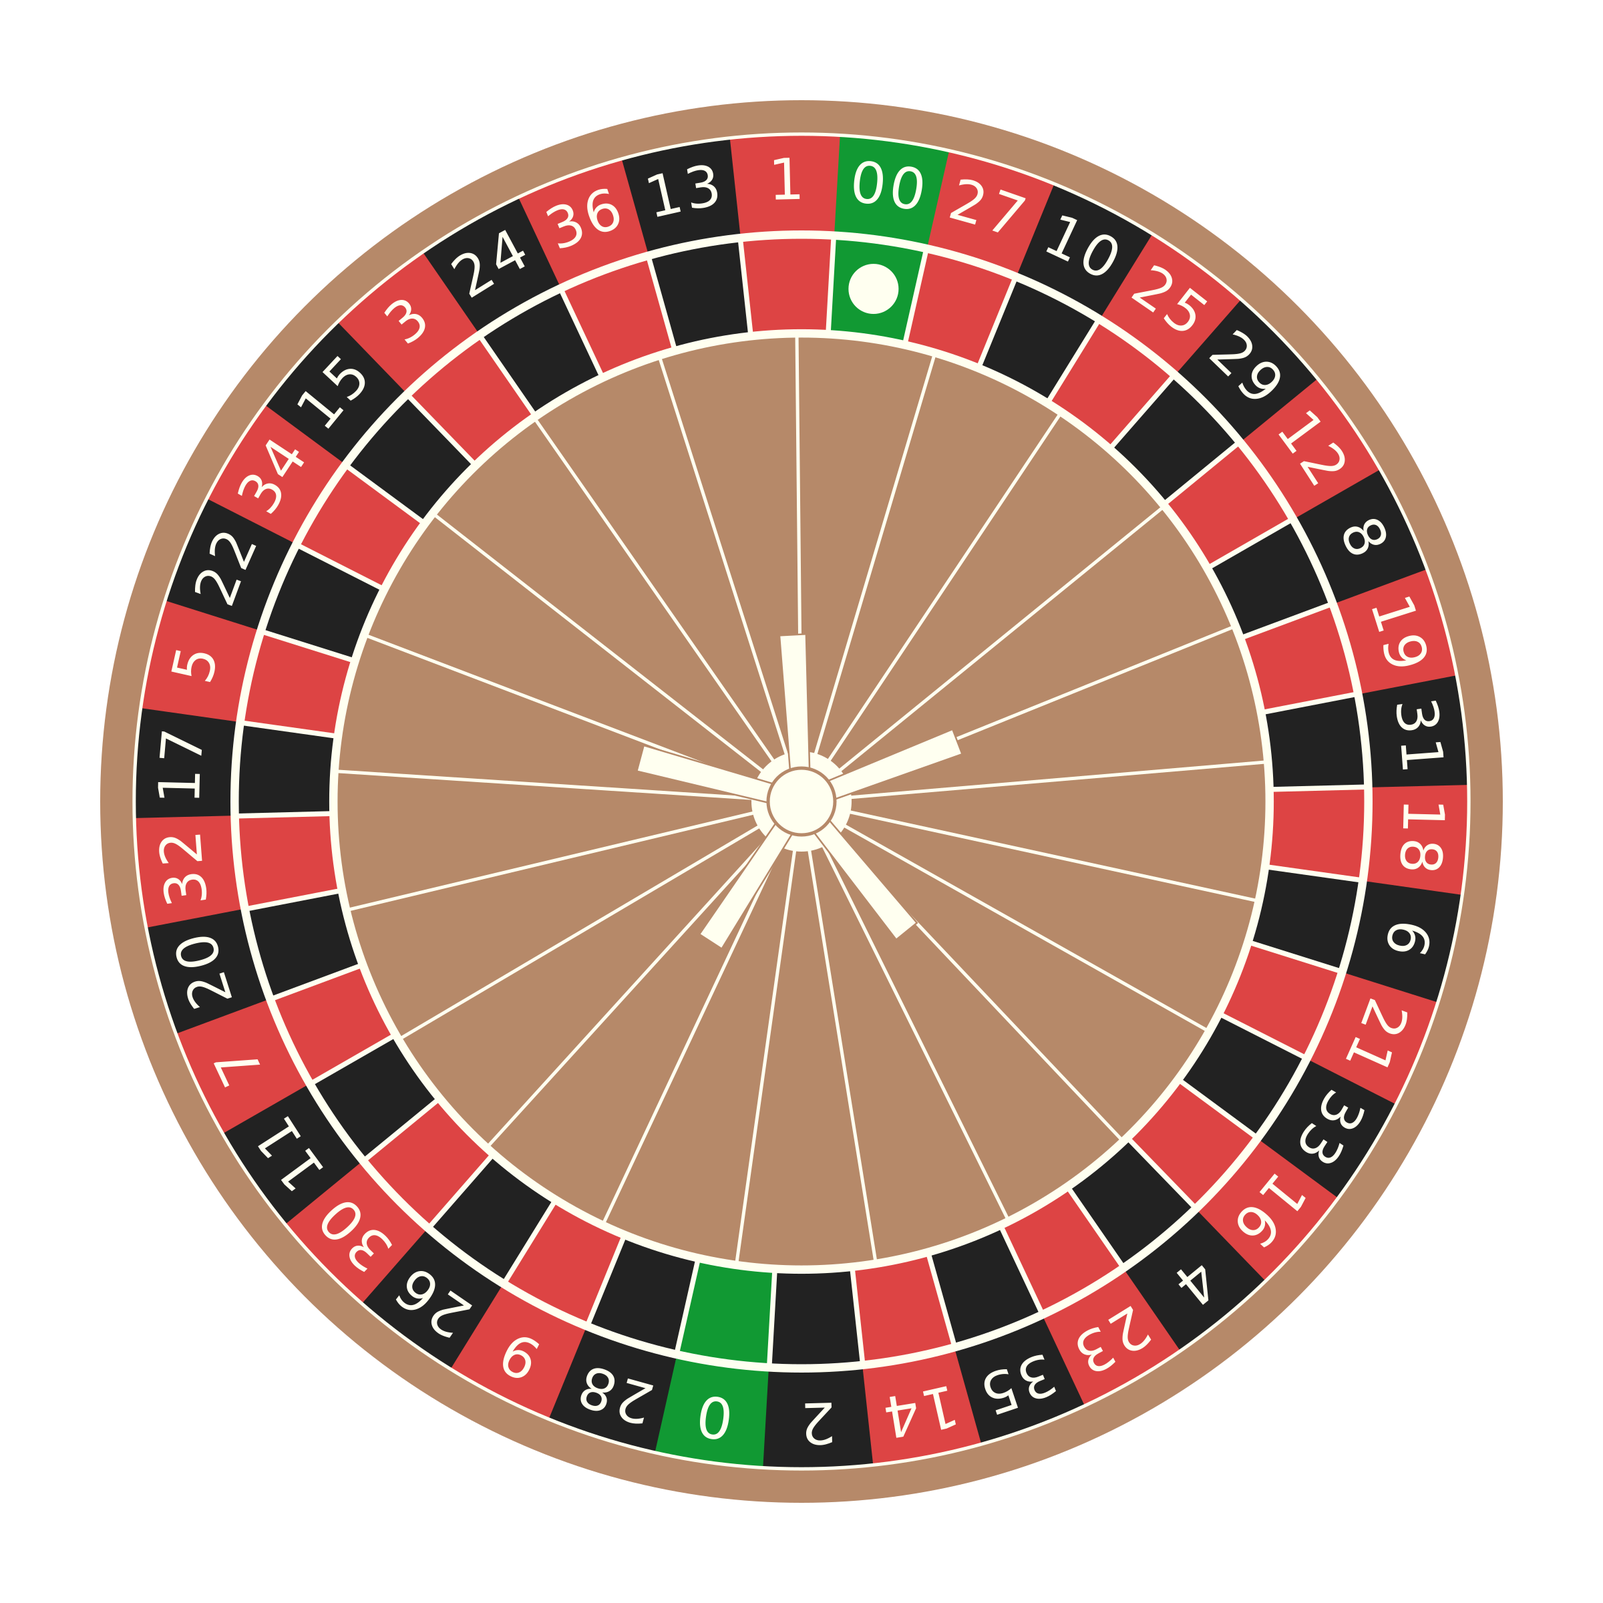
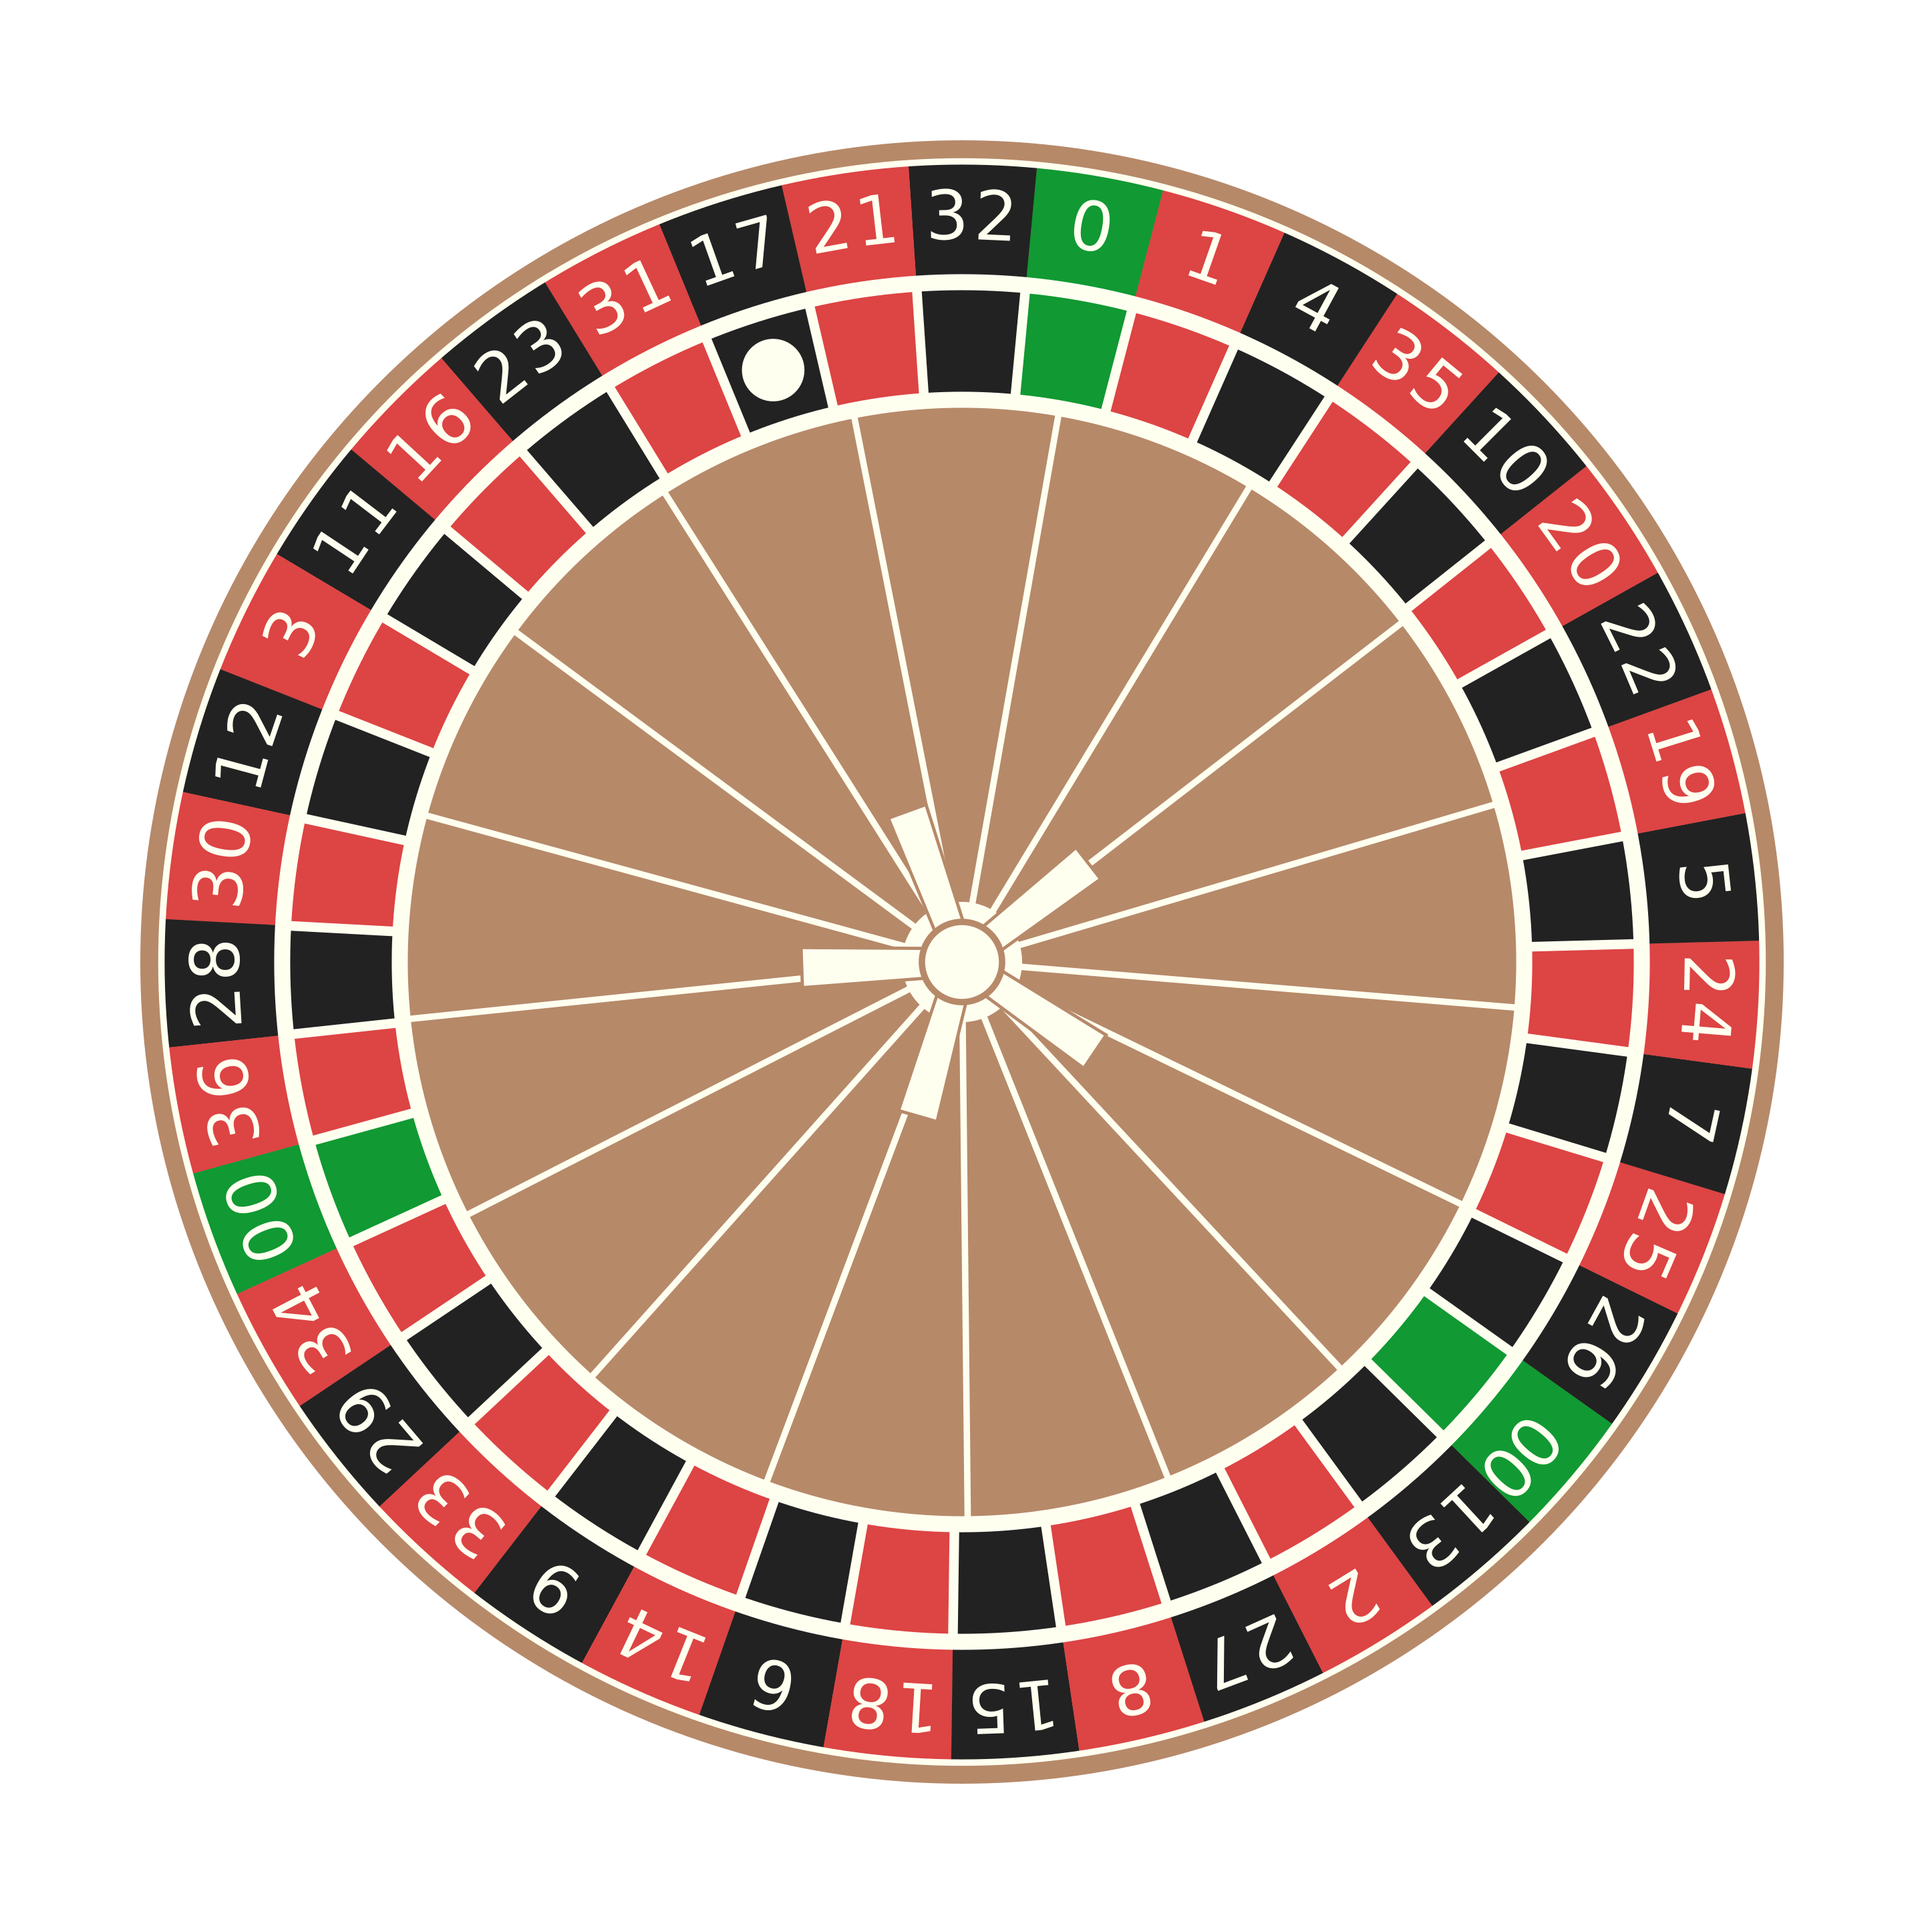
Ended roulette function

diff --git a/draw_roulette.py b/draw_roulette.py
@@ -1,0 +1,117 @@
+import numpy as np
+import drawSvg as draw
+from numpy.random.mtrand import random
+
+
+def draw_roulette(billes=[], numbers=None, americaine=False, handles=5, phase=0, h_phase=30, random_seed=None):
+    margin = 0.2
+    board_margin = 0.025
+    inner_rays_factor = 2.5
+    l_handle, w_handle = 0.2, 0.05
+    sw_ring = 0.004
+
+    k_border = 'ivory'
+    k_outside = '#B68969'
+    k_red = '#DD4444'
+    k_black = '#222222'
+    k_green = '#119933'
+
+    if random_seed is not None:
+        np.random.seed(random_seed)
+        
+    def convert_numbers(n_max, n_zeros):
+        n = np.arange(1, n_max + 1)
+        np.random.shuffle(n)
+        n = list(n)
+        if n_zeros == 2:
+            i1 = n_max // 2
+            return [0] + n[:i1] + [-1] + n[i1:]
+        elif n_zeros == 3:
+            i1, i2 = n_max // 3, 2 * n_max // 3
+            return [0] + n[:i1] + [-1] + n[i1:i2] + [-2] + n[i2:]
+        return [0] + n
+
+    if numbers is None:
+        if americaine:
+            # Americaine
+            numbers = [0, 2, 14, 35, 23, 4, 16, 33, 21, 6, 18, 31, 19, 8, 12, 29, 25, 10, 27, -1, 1, 13, 36, 24, 3, 15, 34, 22, 5, 17, 32, 20, 7, 11, 30, 26, 9, 28]
+        else:
+            # Française
+            numbers = [0, 26, 3, 35, 12, 28, 7, 29, 18, 22, 9, 31, 14, 20, 1, 33, 16, 24, 5, 10, 23, 8, 30, 11, 36, 13, 27, 6, 34, 17, 25, 2, 21, 4, 19, 15, 32]
+    elif type(numbers) is tuple:
+        if len(numbers) > 1:
+            n_zeros = max(1, min(3, numbers[1]))
+        else:
+            n_zeros = 1 + americaine
+        n_max = max(n_zeros, n_zeros * (min(48, numbers[0]) // n_zeros))
+        numbers = convert_numbers(n_max, n_zeros)
+    elif type(numbers) is int:
+        n_zeros = 1 + americaine
+        n_max = max(2, n_zeros * (min(48, numbers) // n_zeros))
+        numbers = convert_numbers(n_max, n_zeros)
+        
+    def written_number(n):
+        if n > 0:
+            return str(n)[::-1]
+        else:
+            return (1 - n) * '0'
+
+    r_out, r_mid, r_in = 1, 0.85, 0.7
+    nb_width = 360 / len(numbers)
+    d = draw.Drawing(2 * (1 + margin), 2 * (1 + margin), origin='center', displayInline=False)
+    # Board
+    d.append(draw.Circle(0, 0, (1 + board_margin)* r_out, fill=k_outside))
+    # Draw multiple circular arcs
+    angle = 90 + phase
+    red = True
+    ps = []
+    for n in numbers:
+        if n > 0:
+            if red:
+                stroke = k_red
+            else:
+                stroke = k_black
+        else:
+            stroke = k_green
+        d.append(draw.Arc(0, 0, (r_out + r_in) / 2, angle - 1.001 * nb_width / 2, angle + 1.001 * nb_width / 2, stroke=stroke, stroke_width=r_out - r_in, fill_opacity=0))
+        ps.append(draw.Arc(0, 0, (r_out + r_in) / 2, 180 + angle - nb_width / 2, 180 + angle + nb_width / 2, fill_opacity=0))
+        angle += nb_width
+        red ^= True
+
+    for n in numbers:
+        path = ps.pop(0)
+        d.append(draw.Line(r_in * np.cos((angle - nb_width / 2) / 180 * np.pi), r_in * np.sin((angle - nb_width / 2) / 180 * np.pi), r_mid * np.cos((angle - nb_width / 2) / 180 * np.pi), r_mid * np.sin((angle - nb_width / 2) / 180 * np.pi), stroke=k_border, stroke_width=3 * sw_ring))
+        d.append(draw.Text(written_number(n), 0.085, fill=k_border, path=path, center=True, lineOffset=-21))
+        b = billes.count(n)
+        if b:
+            d.append(draw.Circle((r_mid + r_in) / 2 * np.cos(angle / 180 * np.pi), (r_mid + r_in) / 2 * np.sin(angle / 180 * np.pi), 0.035, fill=k_border, stroke=k_border, stroke_width=2 * sw_ring))
+            if b > 1:
+                d.append(draw.Text(written_number(b) + 'x', 0.05, fill=k_black, path=path, center=True, lineOffset=-32.625))
+        angle += nb_width
+
+    for n in range(int(len(numbers) // inner_rays_factor + 2)):
+        d.append(draw.Line(0, 0, r_in * np.cos(angle / 180 * np.pi), r_in * np.sin(angle / 180 * np.pi), stroke=k_border, stroke_width=2 * sw_ring))
+        angle += 360 / (len(numbers) // inner_rays_factor + 2)
+            
+    # Outer ring
+    d.append(draw.Circle(0, 0, r_out - sw_ring / 3, stroke=k_border, stroke_width=2 * sw_ring, fill_opacity=0))
+    # Middle ring
+    d.append(draw.Circle(0, 0, r_mid - sw_ring / 2, stroke=k_border, stroke_width=5 * sw_ring, fill_opacity=0))
+    # Inner ring
+    d.append(draw.Circle(0, 0, r_in + sw_ring / 3, stroke=k_border, stroke_width=5 * sw_ring, fill_opacity=0))
+
+    # Lower Handle
+    d.append(draw.Circle(0, 0, 0.075 * r_out, fill=k_border))
+
+    pos = np.array([[0, l_handle, l_handle, 0], [-w_handle / 3, -w_handle / 2, w_handle / 2, w_handle / 3]])
+    rot = lambda theta: np.array([[np.cos(theta / 180 * np.pi), -np.sin(theta / 180 * np.pi)], [np.sin(theta / 180 * np.pi), np.cos(theta / 180 * np.pi)]])
+    theta = 90 + phase + h_phase
+    for h in range(handles):
+        theta += 360 / handles
+        rp = rot(theta) @ pos
+        d.append(draw.Lines(rp[0, 0], rp[1, 0], rp[0, 1], rp[1, 1], rp[0, 2], rp[1, 2], rp[0, 3], rp[1, 3], close=True, fill=k_border, stroke=k_outside, stroke_width=sw_ring))
+
+    # Upper Handle
+    d.append(draw.Circle(0, 0, 0.05 * r_out, fill=k_border, stroke=k_outside, stroke_width=2 * sw_ring))
+
+    return d
